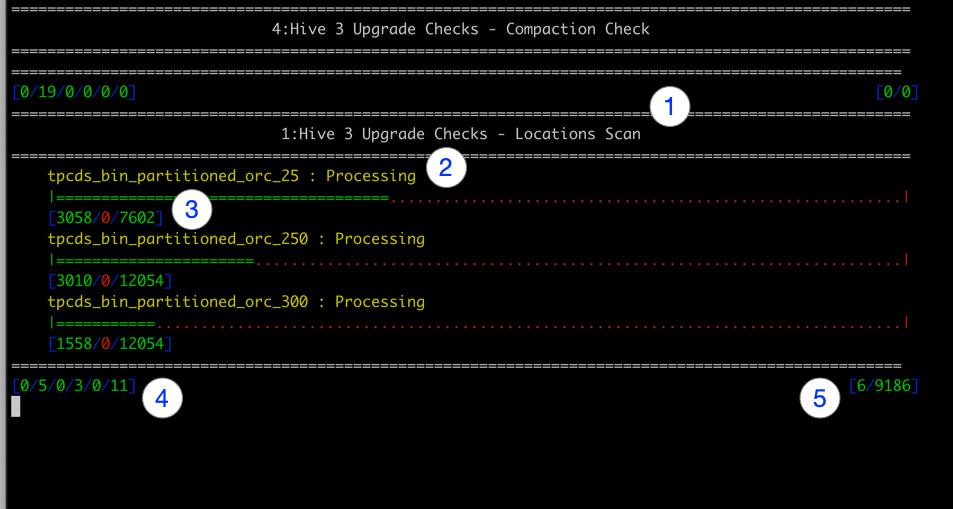
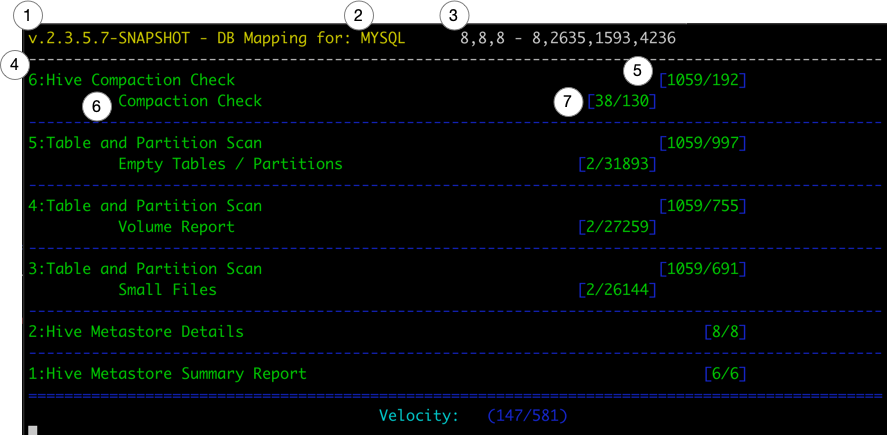
UI Detail Update

Changed region(s): [[0.0, 0.0, 1.0, 1.0]]

diff --git a/hive-sre/README.md b/hive-sre/README.md
@@ -93,11 +93,22 @@ There are several 'processes' that are defined in `u3`.  Each process will run 1
 
 The number of concurrent processes is controlled by the `parallelism` variable in the configuration yaml defined above.
 
-1. Process Header - [process id: process name]
-2. Sub Process - [table name: process state]
-3. Sub Process Progress - [processed count / issues count / total in process count]
-4. Process Footer Details.  Count of sub processes in various states. [Constructed:Waiting:Started:Processing:Error:Complete].  In the example below there are 5 sub-processes waiting for a slot to run, 3 sub-processes running, and 11 sub-processes that have completed.
-5. Process Counts - [issues: processed so far]. The example below shows 6 issues in the 'Location Scan' and 9186 'completed checks' thus far.
+1. `hive-sre` version information
+2. Metastore RDBMS Type
+3. Thread Status `a,b,c - d,e,f,j`
+   - (a) Core Pool Size 
+   - (b) Largest Pool Size
+   - (c) Max Pool Size
+   - (d) Active Thread Count
+   - (e) Completed Thread Tasks
+   - (f) Remaining Thread Queue
+   - (j) Total Task Count
+4. Procedure Name
+5. Procedure Counts `[Total/Completed]`
+    - `Total` is the full count of all tasks for that process
+    - `Completed` is the number of tasks this procedure has completed.
+6. Procedure Check - Child of Procedure
+7. Procedure Check Counts - `errors/successes`
 
 ![UI Details](images/hive-ui-details.png)
                          
